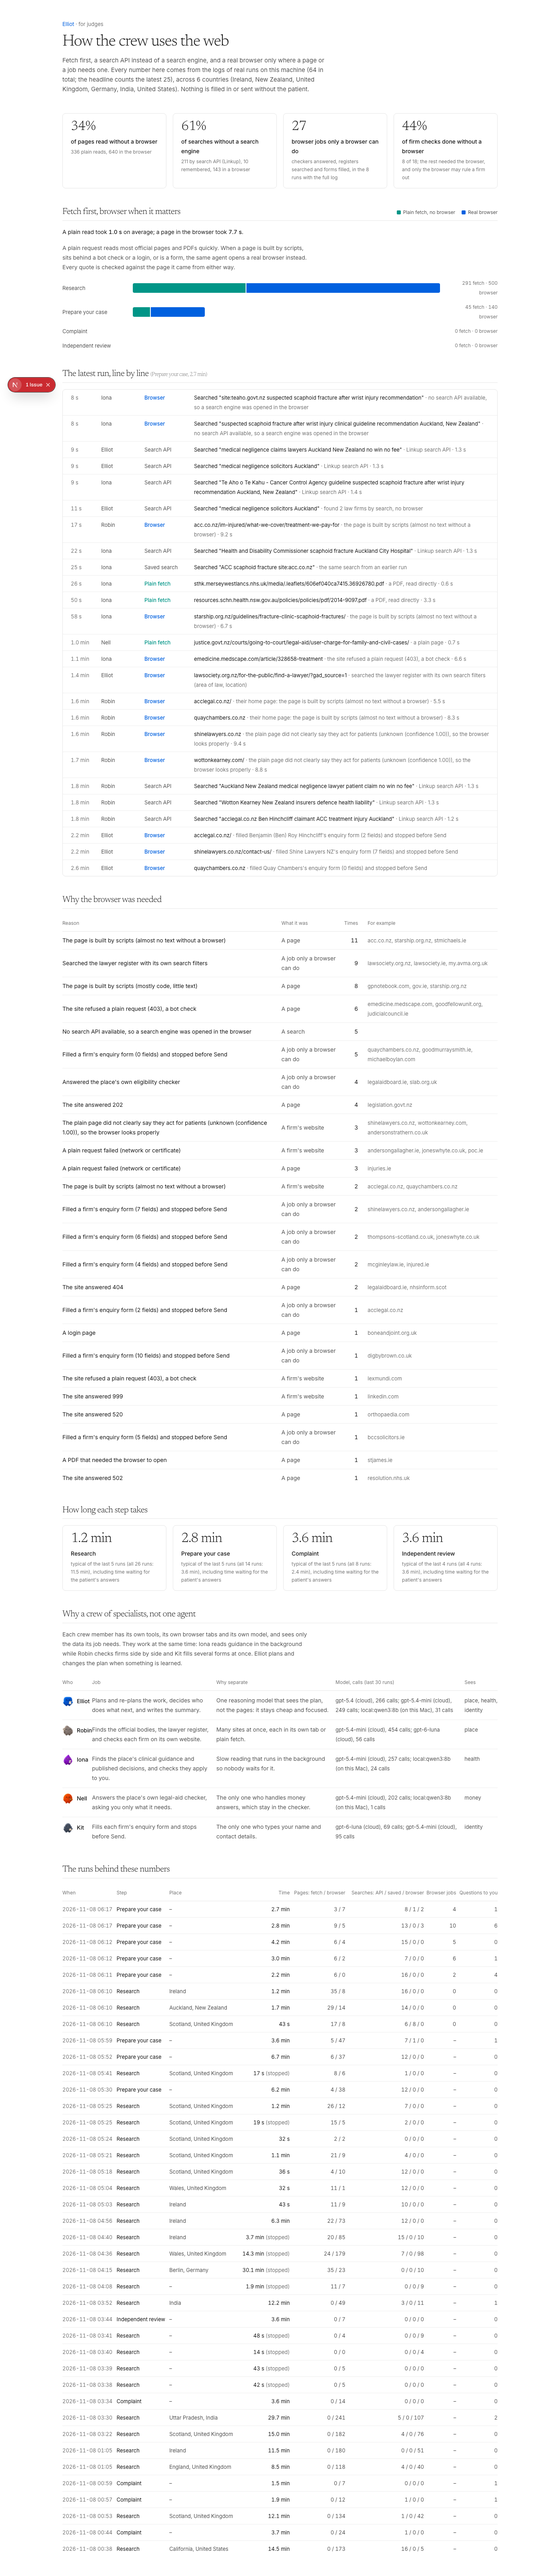
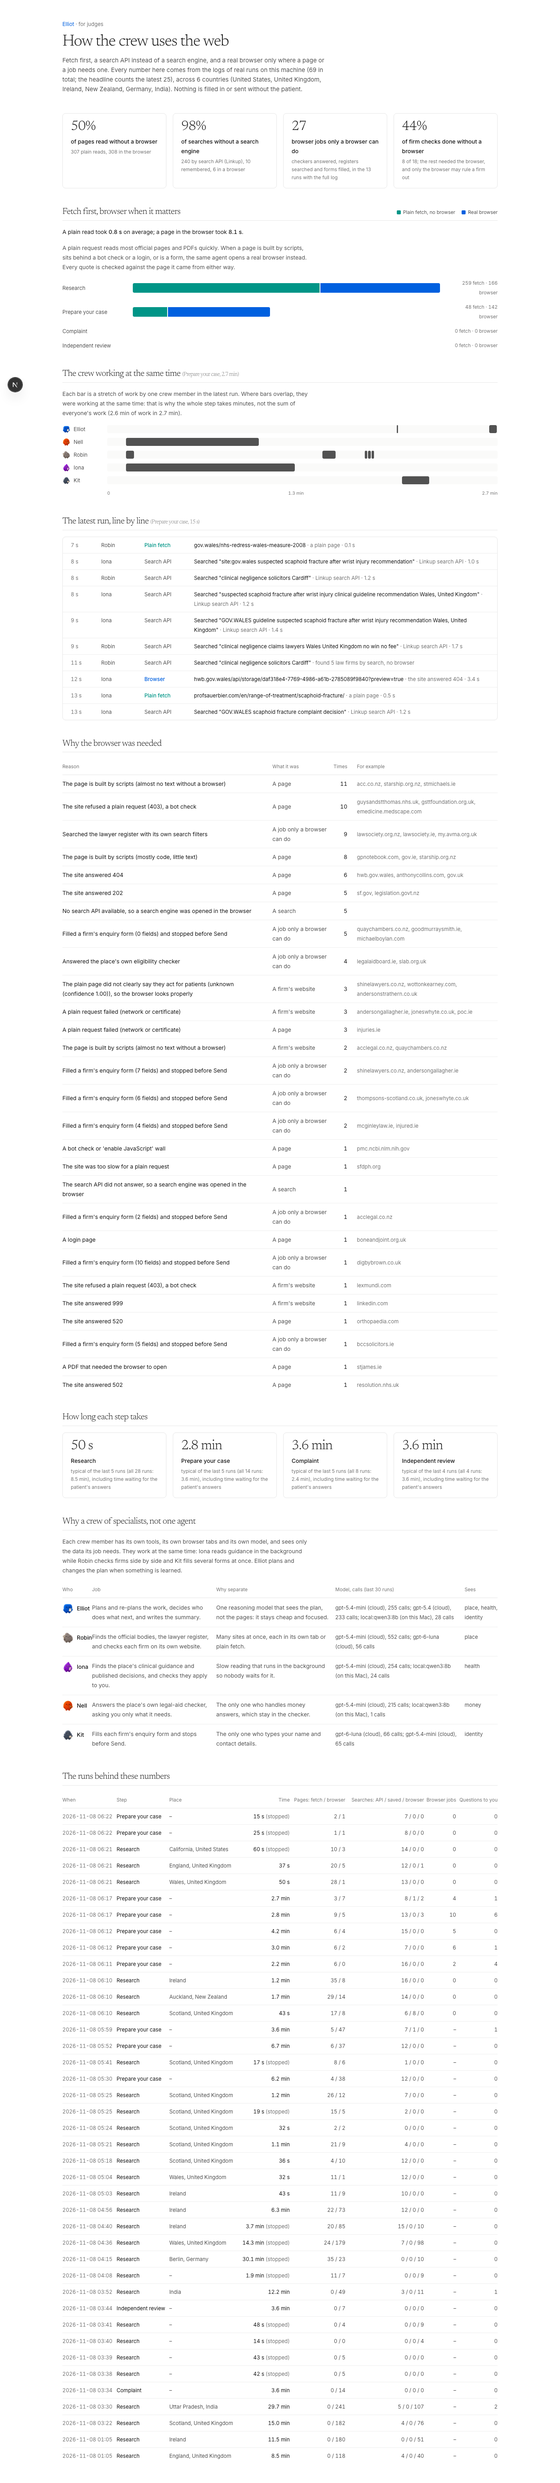
Dashboard: the crew working at the same time (swimlanes on one clock)

diff --git a/app/insights/page.tsx b/app/insights/page.tsx
@@ -53,6 +53,7 @@ async function Dashboard() {
     return xs.length ? xs.reduce((a, b) => a + b, 0) / xs.length : 0;
   };
   const latest = logged[0];
+  const lanesRun = recent.find((r) => r.flow === "compensation" && r.lanes.length >= 3) ?? recent.find((r) => r.lanes.length >= 3);
   const jobs = logged.flatMap((r) => r.access.filter((a) => a.kind === "task"));
   const firms = logged.flatMap((r) => r.access.filter((a) => a.kind === "firm"));
   const reasons = browserReasons(logged);
@@ -128,6 +129,40 @@ async function Dashboard() {
           ))}
         </div>
       </section>
+
+      {/* The crew at work, on one clock */}
+      {lanesRun && (
+        <section className="space-y-4">
+          <Title>
+            The crew working at the same time <span className="text-[14px] text-muted">({FLOW_NAME[lanesRun.flow]}{lanesRun.place ? `, ${lanesRun.place}` : ""}, {mins(lanesRun.ms)})</span>
+          </Title>
+          <p className="max-w-[70ch] text-[14px] leading-6 text-ink-2">Each bar is a stretch of work by one crew member in the latest run. Where bars overlap, they were working at the same time: that is why the whole step takes minutes, not the sum of everyone&apos;s work ({mins(lanesRun.lanes.reduce((n, l) => n + l.spans.reduce((m, [a, b]) => m + (b - a), 0), 0))} of work in {mins(lanesRun.ms)}).</p>
+          <div className="space-y-2">
+            {lanesRun.lanes.map((l) => (
+              <div key={l.crew} className="grid grid-cols-[6rem_1fr] items-center gap-4">
+                <span className="flex items-center gap-2 text-[13px] capitalize text-ink-2">
+                  {/* eslint-disable-next-line @next/next/no-img-element -- tiny static avatar */}
+                  <img src={`/crew/${l.crew}-256.png`} alt="" aria-hidden className="size-5 object-contain" />
+                  {l.crew}
+                </span>
+                <div className="relative h-5 rounded-[4px] bg-subtle">
+                  {l.spans.map(([a, b], i) => (
+                    <div key={i} className="absolute inset-y-0 rounded-[4px] bg-ink-2" style={{ left: `${(a / lanesRun.ms) * 100}%`, width: `max(3px, calc(${((b - a) / lanesRun.ms) * 100}% - 2px))` }} title={`${l.crew}: working from ${mins(a)} to ${mins(b)}`} />
+                  ))}
+                </div>
+              </div>
+            ))}
+            <div className="grid grid-cols-[6rem_1fr] gap-4 text-[11px] text-muted">
+              <span />
+              <span className="flex justify-between tabular-nums">
+                <span>0</span>
+                <span>{mins(lanesRun.ms / 2)}</span>
+                <span>{mins(lanesRun.ms)}</span>
+              </span>
+            </div>
+          </div>
+        </section>
+      )}
 
       {/* The latest run, line by line */}
       {latest && (

diff --git a/lib/insights.ts b/lib/insights.ts
@@ -25,6 +25,8 @@ export type RunSummary = {
   asks: number;
   models: { agent: string; model: string; where: "local" | "cloud"; calls: number; tokens: number; ms: number; data: string[] }[];
   access: Access[];
+  /** When each crew member was working (from the run's crew events): the parallel work, on one clock. */
+  lanes: { crew: string; spans: [number, number][] }[];
 };
 
 const FLOW: [RegExp, Flow][] = [[/^discovery-/, "discovery"], [/^complaint-/, "complaint"], [/^escalation-/, "escalation"], [/^step3-/, "compensation"], [/^step4-/, "enquiries"]];
@@ -46,6 +48,8 @@ function readRun(dir: string, id: string): RunSummary | null {
   let asks = 0;
   const searches = { api: 0, cache: 0, browser: 0 };
   const models = new Map<string, RunSummary["models"][number]>();
+  const open = new Map<string, number>();
+  const spans = new Map<string, [number, number][]>();
   for (const line of readFileSync(file, "utf8").split("\n")) {
     if (!line) continue;
     let x: Ev;
@@ -57,6 +61,15 @@ function readRun(dir: string, id: string): RunSummary | null {
     last = Math.max(last, x.t);
     const e = x.e;
     if (e.type === "stats") stats = { ...stats, ...(e.stats as typeof stats) };
+    else if (e.type === "crew") {
+      const id = String(e.id);
+      if (e.state === "working") {
+        if (!open.has(id)) open.set(id, x.t);
+      } else if (open.has(id)) {
+        spans.set(id, [...(spans.get(id) ?? []), [open.get(id)!, x.t]]);
+        open.delete(id);
+      }
+    }
     else if (/_result$|^result$/.test(e.type)) finished = true;
     else if (e.type === "ask") asks++;
     else if (e.type === "place" || e.type === "route") {
@@ -113,6 +126,7 @@ function readRun(dir: string, id: string): RunSummary | null {
     asks,
     models: [...models.values()],
     access,
+    lanes: ["elliot", "nell", "robin", "iona", "kit"].map((crew) => ({ crew, spans: [...(spans.get(crew) ?? []), ...(open.has(crew) ? [[open.get(crew)!, last] as [number, number]] : [])] })).filter((l) => l.spans.length),
   };
   cache.set(id, { mtime, run });
   return run;
